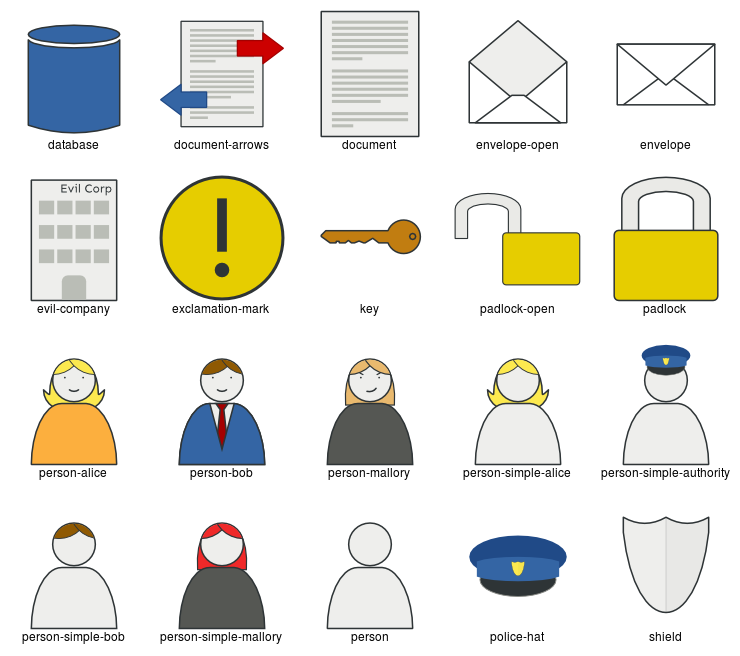
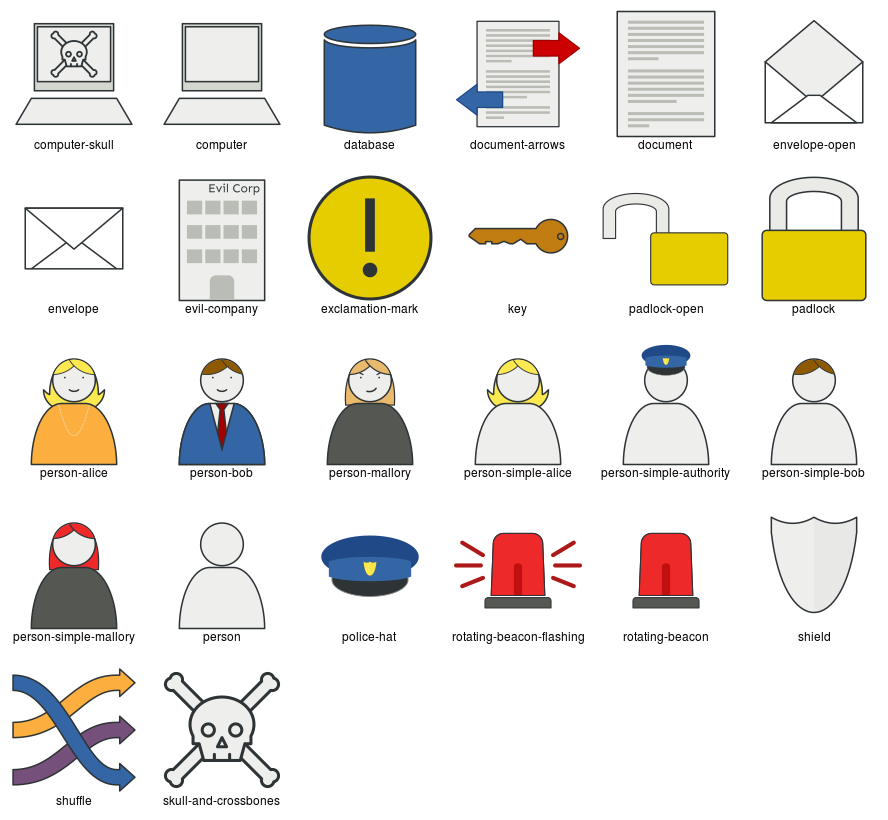
Update README.md

diff --git a/README.md b/README.md
@@ -6,7 +6,7 @@ explaining something in cryptography.
 The icons can be freely used in any presentation or publication **even
 without** acknowledgment/attribution.
 
-![Montage of the icon set.](montage.png "Overview of all icons.")
+![Montage of the icon set.](montage.png "Overview of a selection of icons.")
 
 Naming convention
 -----------------
@@ -19,6 +19,7 @@ The following list describes some icons and how one could use them.
 
 * `exclamation-mark`: sensitive data, in need of protection
 * `document-arrows`: a document being shared
+* `shuffle`: a mix in a mix network
 
 Help Wanted
 -----------
